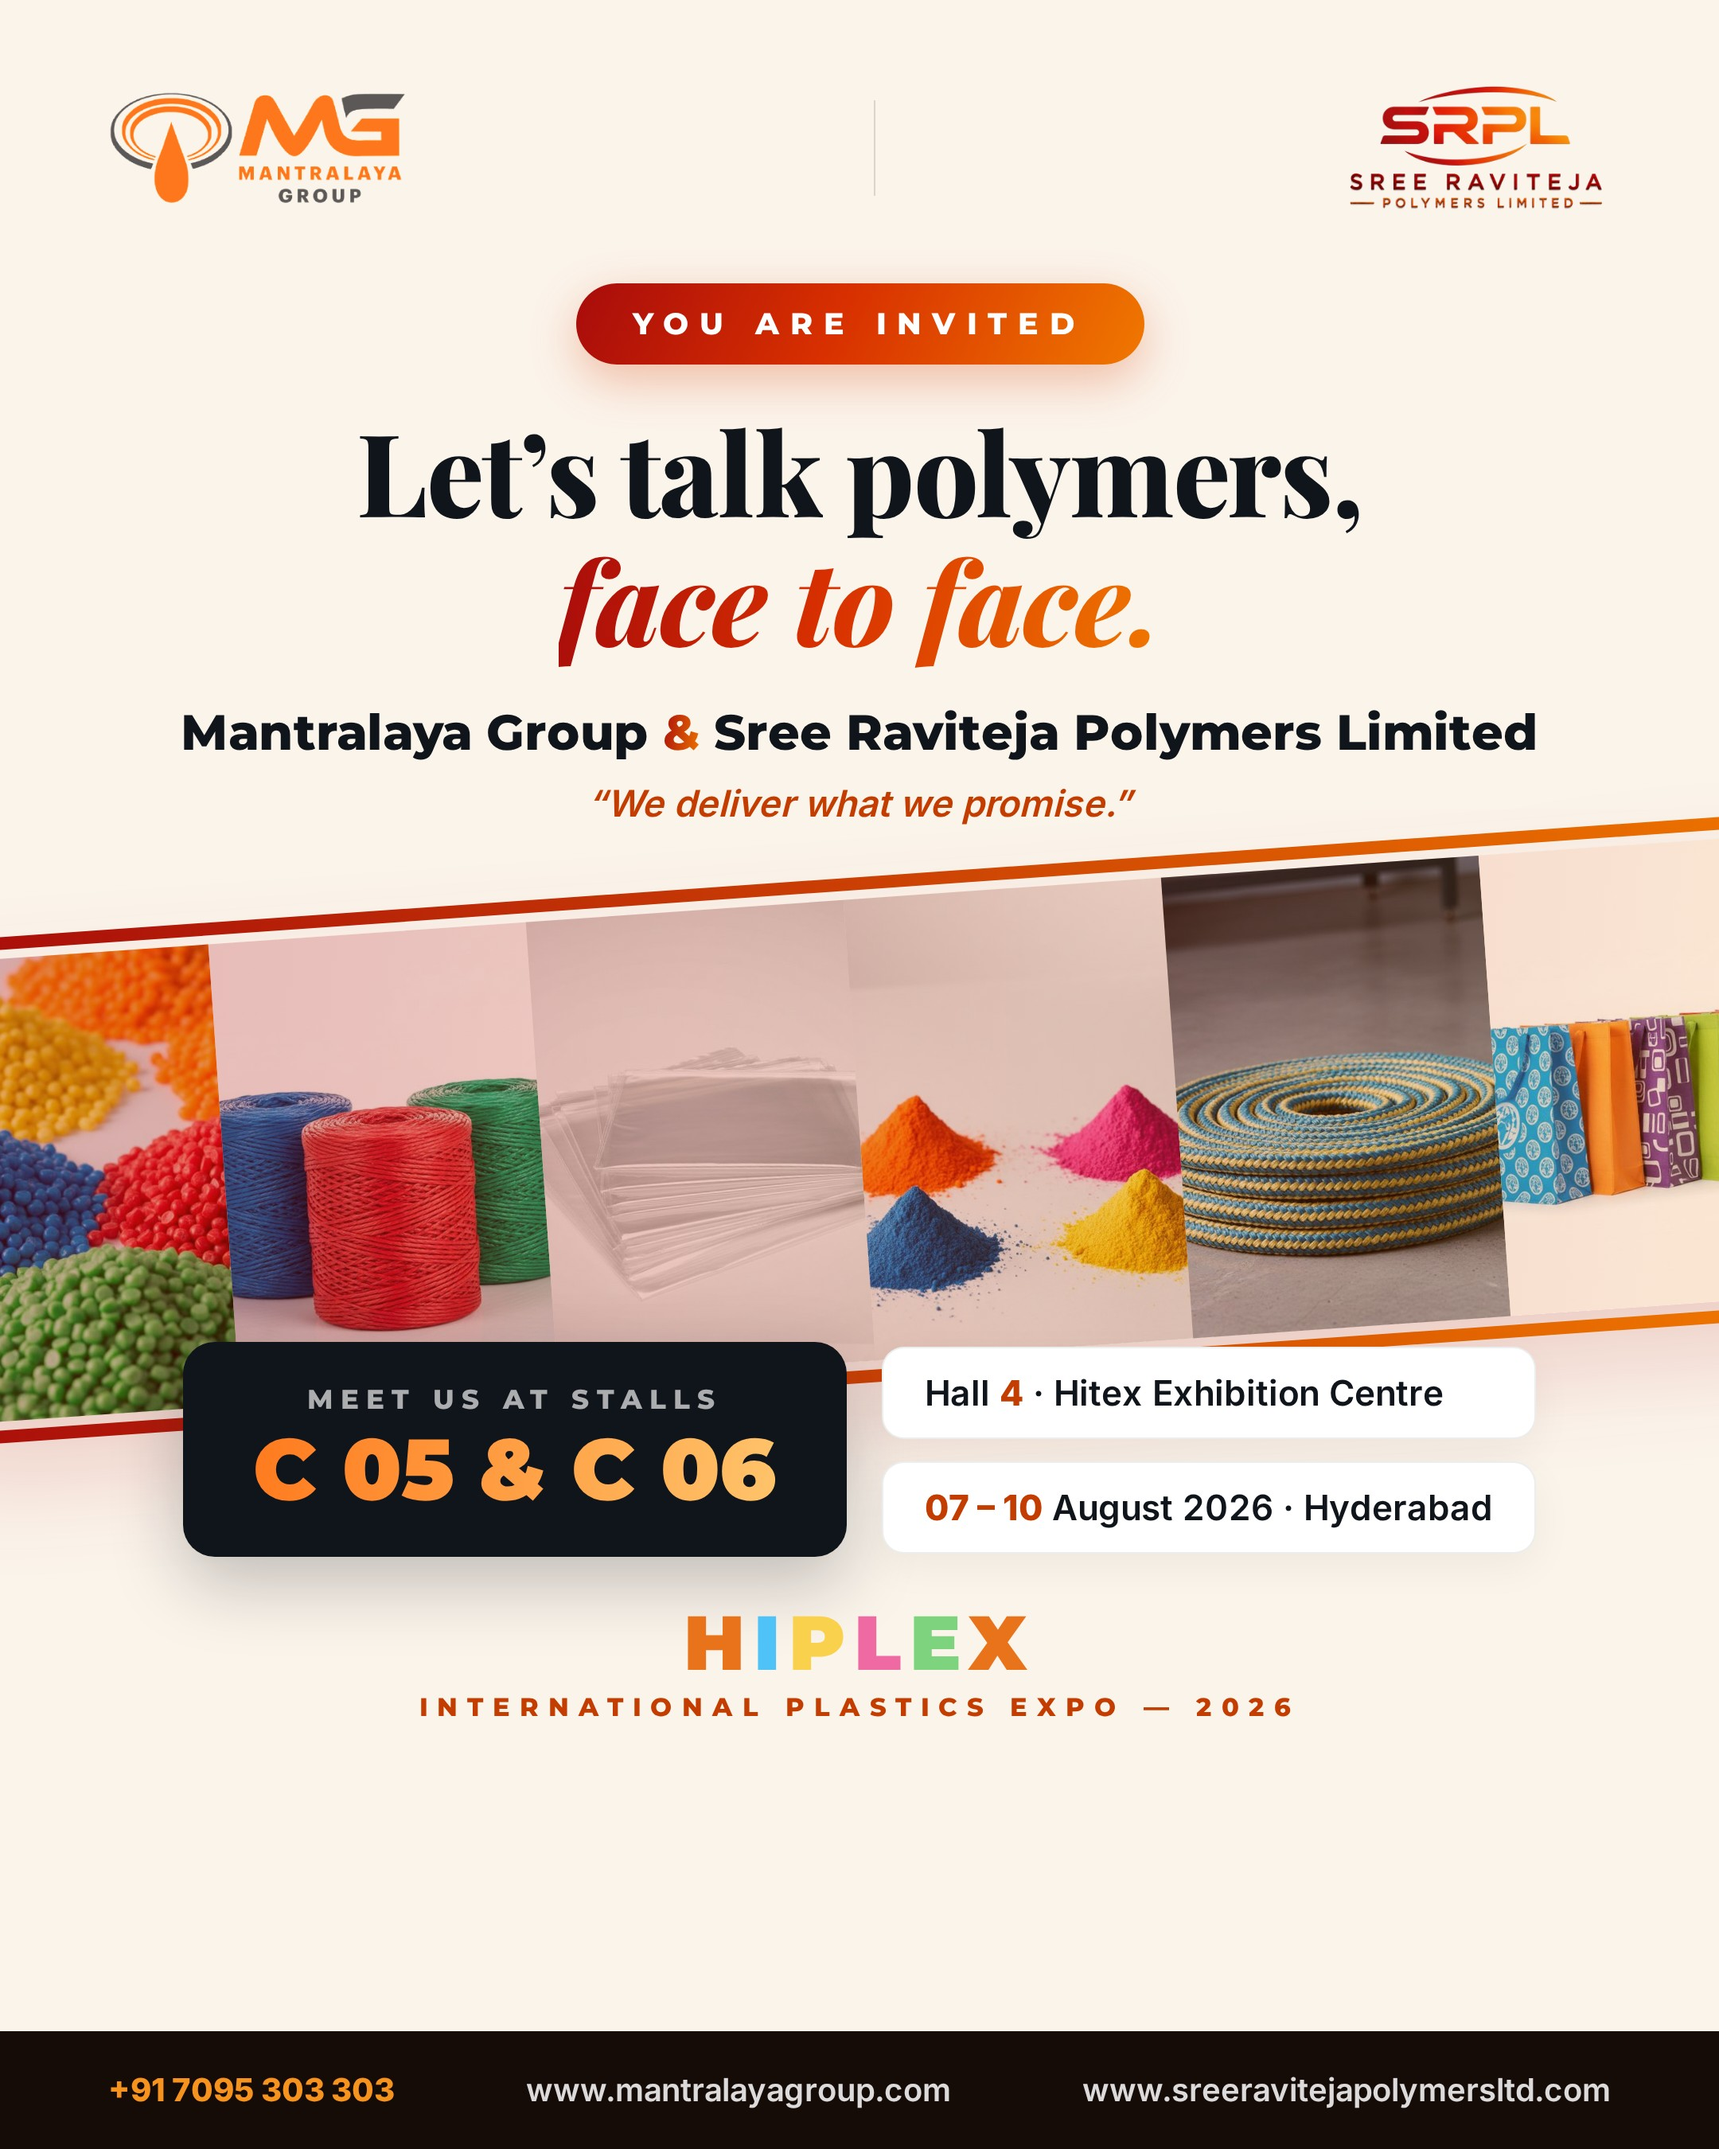
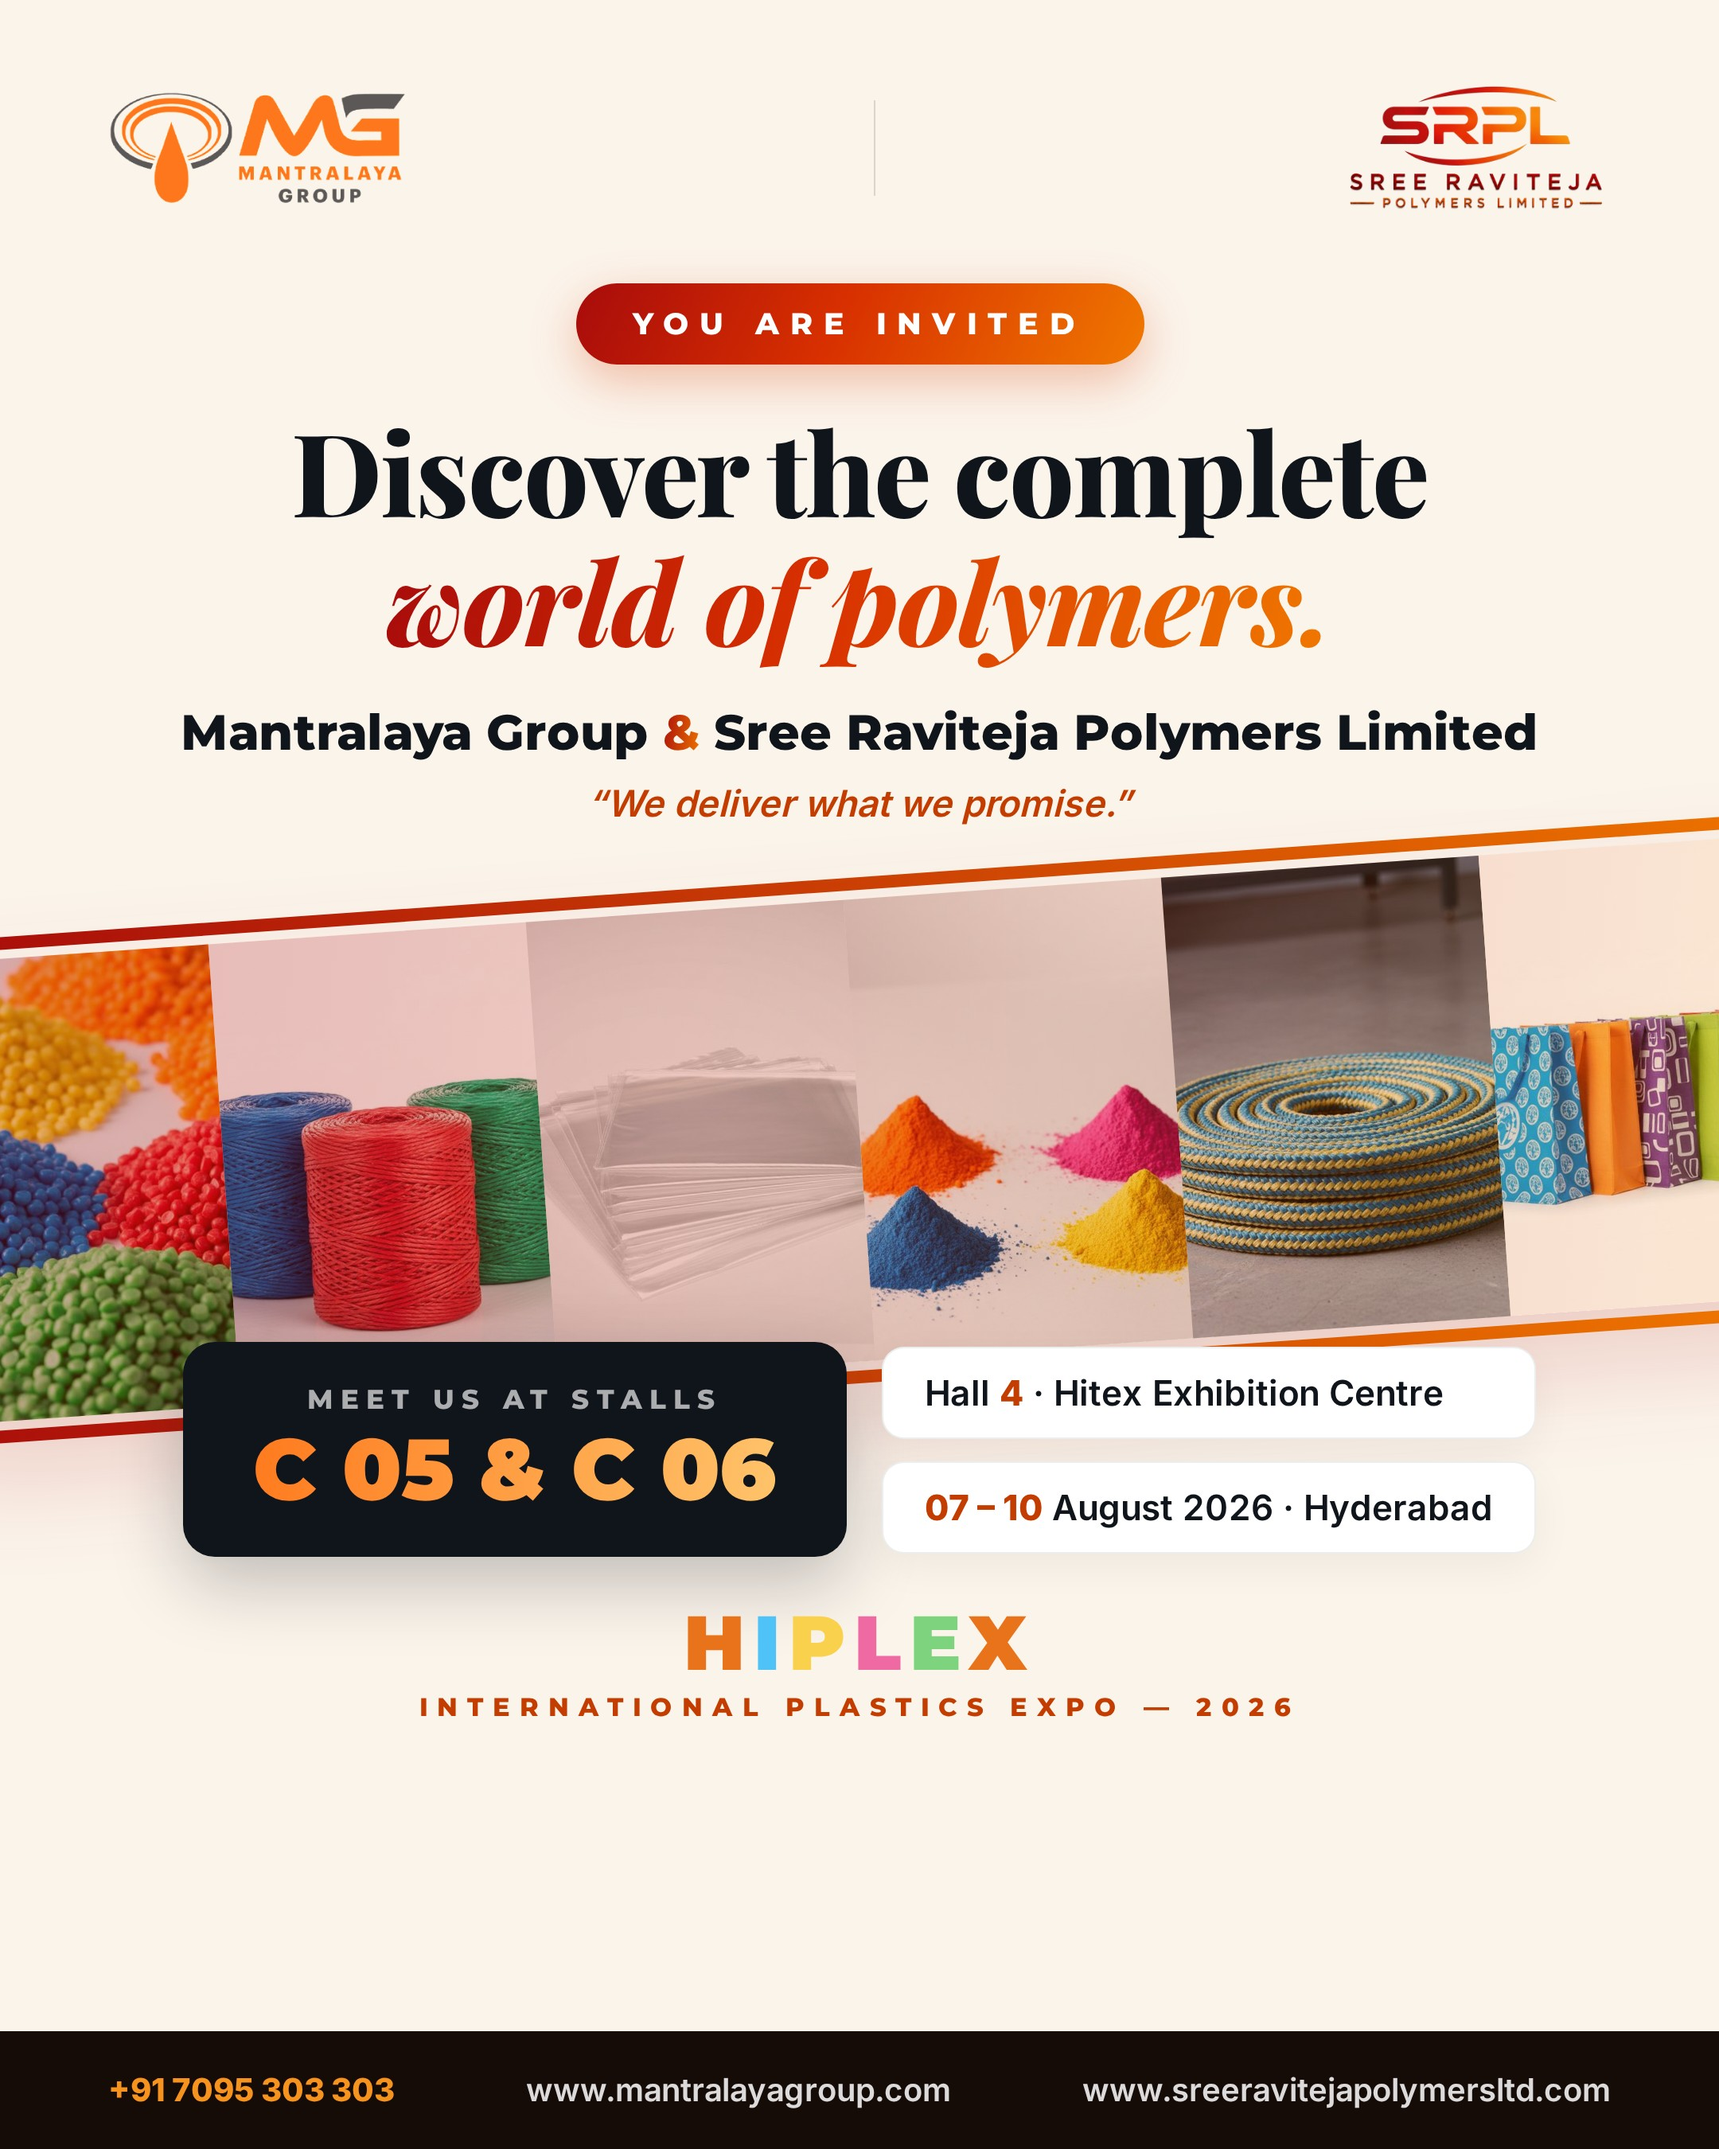
New captions: One trusted group / Discover the complete world of polymers

Changed region(s): [[0.1551, 0.1867, 0.8375, 0.3111]]

diff --git a/invites/invite-l.html b/invites/invite-l.html
@@ -8,8 +8,8 @@ body { width:1080px; height:1350px; font-family:'Montserrat',sans-serif; backgro
 .glow { position:absolute; width:760px; height:760px; border-radius:50%; background:radial-gradient(circle, rgba(216,60,0,0.20), transparent 62%); top:230px; left:50%; transform:translateX(-50%); filter:blur(50px); }
 .orb { position:absolute; border-radius:50%; overflow:hidden; border:5px solid; box-shadow:0 14px 40px rgba(0,0,0,0.5); }
 .orb img { width:100%; height:100%; object-fit:cover; display:block; }
-.o1 { width:160px; height:160px; top:370px; left:60px; border-color:#D83000; }
-.o2 { width:120px; height:120px; top:255px; right:88px; border-color:#F07800; }
+.o1 { width:150px; height:150px; top:392px; left:48px; border-color:#D83000; }
+.o2 { width:104px; height:104px; top:168px; right:56px; border-color:#F07800; }
 .o3 { width:140px; height:140px; top:640px; right:78px; border-color:#A80B0B; }
 .o4 { width:150px; height:150px; top:660px; left:70px; border-color:#F6921E; }
 .inner { position:relative; z-index:2; display:flex; flex-direction:column; height:100%; padding:50px 64px 0; }
@@ -17,7 +17,7 @@ body { width:1080px; height:1350px; font-family:'Montserrat',sans-serif; backgro
 .logos img { height:72px; }
 .divider { width:2px; height:60px; background:rgba(255,255,255,0.16); }
 .eyebrow { margin-top:52px; text-align:center; font-size:20px; font-weight:800; letter-spacing:11px; color:rgba(255,255,255,0.65); }
-.caption { margin-top:22px; text-align:center; font-family:'Playfair Display',serif; font-size:84px; font-weight:800; line-height:1.08; letter-spacing:-1px; }
+.caption { margin-top:22px; text-align:center; font-family:'Playfair Display',serif; font-size:72px; font-weight:800; line-height:1.08; letter-spacing:-1px; }
 .caption .l2 { background:linear-gradient(100deg,#FF6A2B,#F6921E 55%,#FFC46B); -webkit-background-clip:text; background-clip:text; color:transparent; font-style:italic; }
 .who { margin-top:26px; text-align:center; font-family:'Montserrat',sans-serif; font-size:33px; font-weight:900; color:#fff; line-height:1.45; letter-spacing:0.3px; }
 .who .amp { background:linear-gradient(100deg,#FF7A1E,#FFC46B); -webkit-background-clip:text; background-clip:text; color:transparent; }
@@ -57,7 +57,7 @@ body { width:1080px; height:1350px; font-family:'Montserrat',sans-serif; backgro
       <img src="../srpl-logo-dark.png" alt="SRPL" style="height:84px;">
     </div>
     <div class="eyebrow">YOU ARE INVITED &middot; HIPLEX 2026</div>
-    <div class="caption">Two names.<br><span class="l2">One promise.</span></div>
+    <div class="caption">One trusted group.<br><span class="l2">Every polymer solution.</span></div>
     <div class="who">MANTRALAYA GROUP <span class="amp">&amp;</span><br>SREE RAVITEJA POLYMERS LIMITED<span class="quote">&ldquo;We deliver what we promise.&rdquo;</span></div>
     <div class="spacer"></div>
     <div class="stage">

diff --git a/invites/invite-m.html b/invites/invite-m.html
@@ -49,7 +49,7 @@ body { width:1080px; height:1350px; font-family:'Inter',sans-serif; background:#
       <img src="../srpl-logo-light.png" alt="SRPL" style="height:82px;">
     </div>
     <div class="eyebrow"><span>YOU ARE INVITED</span></div>
-    <div class="caption">Let&rsquo;s talk polymers,<br><em>face to face.</em></div>
+    <div class="caption">Discover the complete<br><em>world of polymers.</em></div>
     <div class="conames">Mantralaya Group <span class="amp">&amp;</span> Sree Raviteja Polymers Limited</div>
     <div class="who2">&ldquo;We deliver what we promise.&rdquo;</div>
     <div class="gap"></div>
